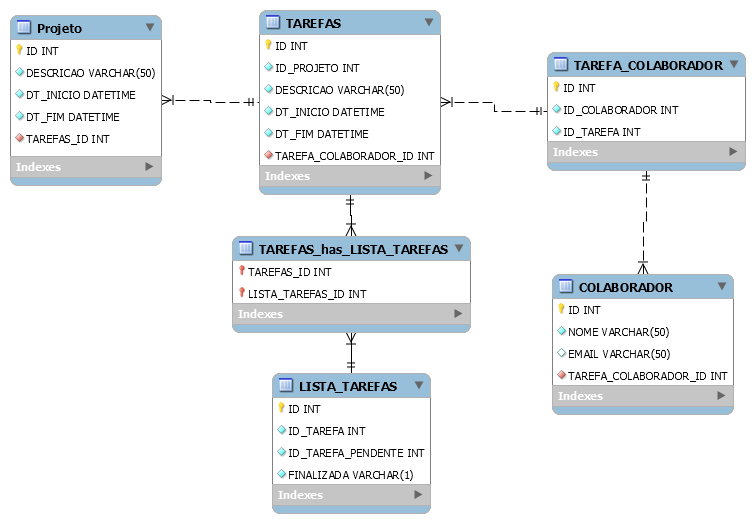
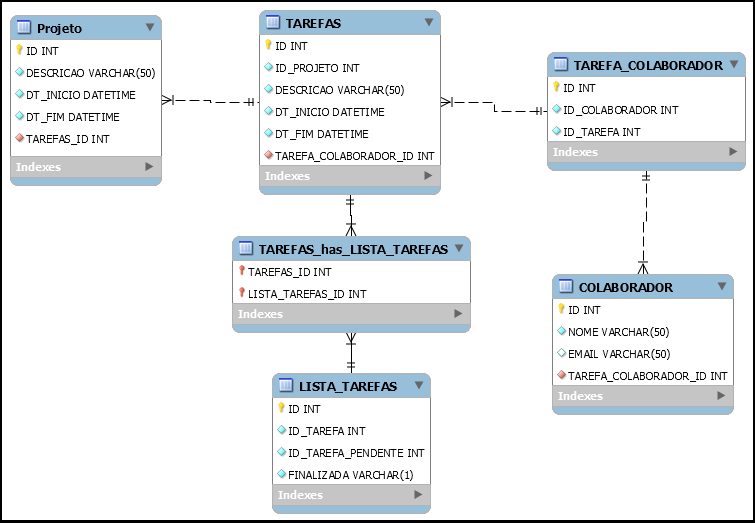
Relatório atualizado - Imagem do banco de dados inserida

Changed region(s): [[0.0, 0.0, 1.0, 1.0]]

diff --git a/README.md b/README.md
@@ -4,6 +4,13 @@
 
 **Texto Explicativo:**<p align="justify"> O sistema tem como objetivo armazenar e trabalhar com o gerenciamento de tarefas, projetos e colaboradores. Além disso, ele visa ter uma melhor estruturação para facilitar o entendimento pelo usuário.</p>
 
+**Modelo de dados:**
+
+
+**Modelo do banco de dados:**
+<a href="https://ibb.co/gchL2m"><img src="https://image.ibb.co/dJp02m/ModeloBD.png" alt="ModeloBD" border="0"></a>
+
+
 **Classes utilizadas:**
 
 - Interfaces:
